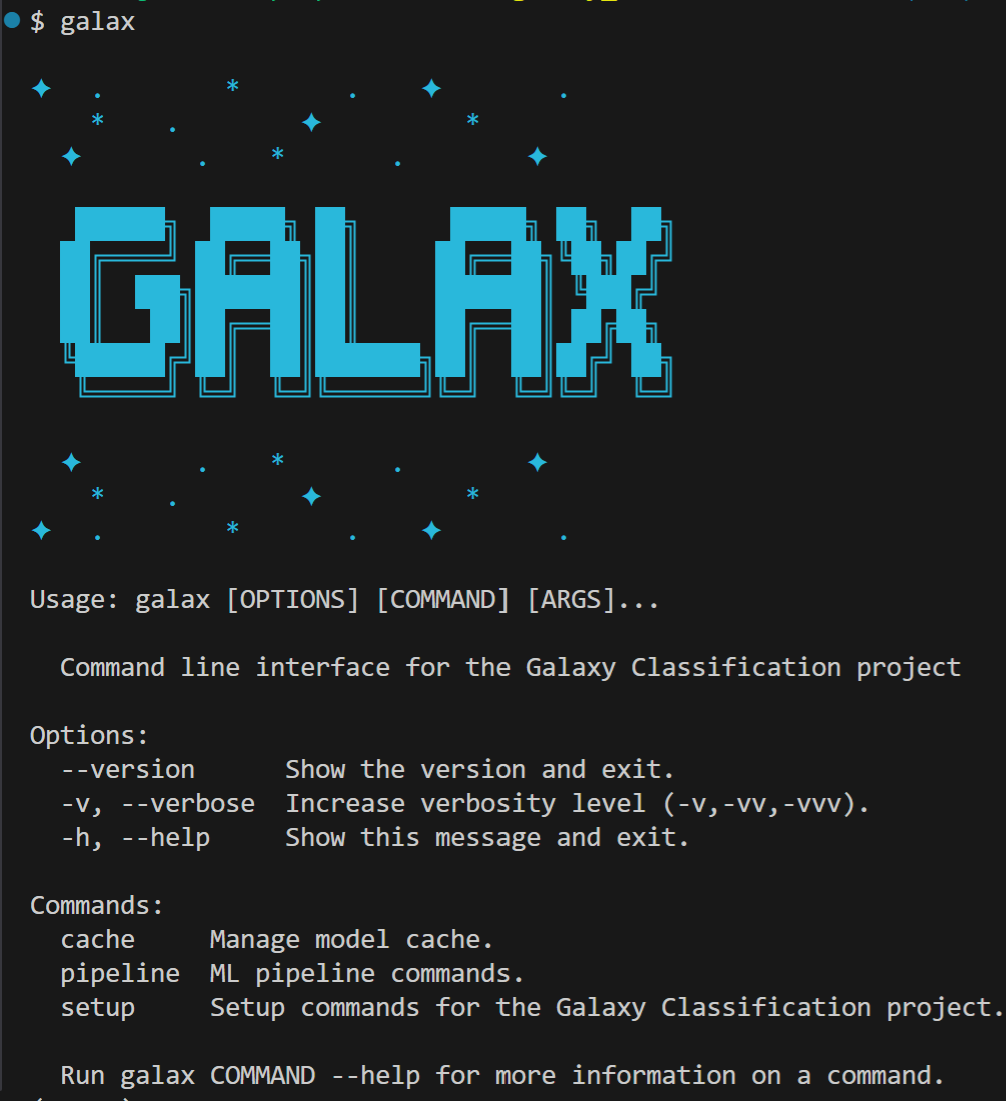
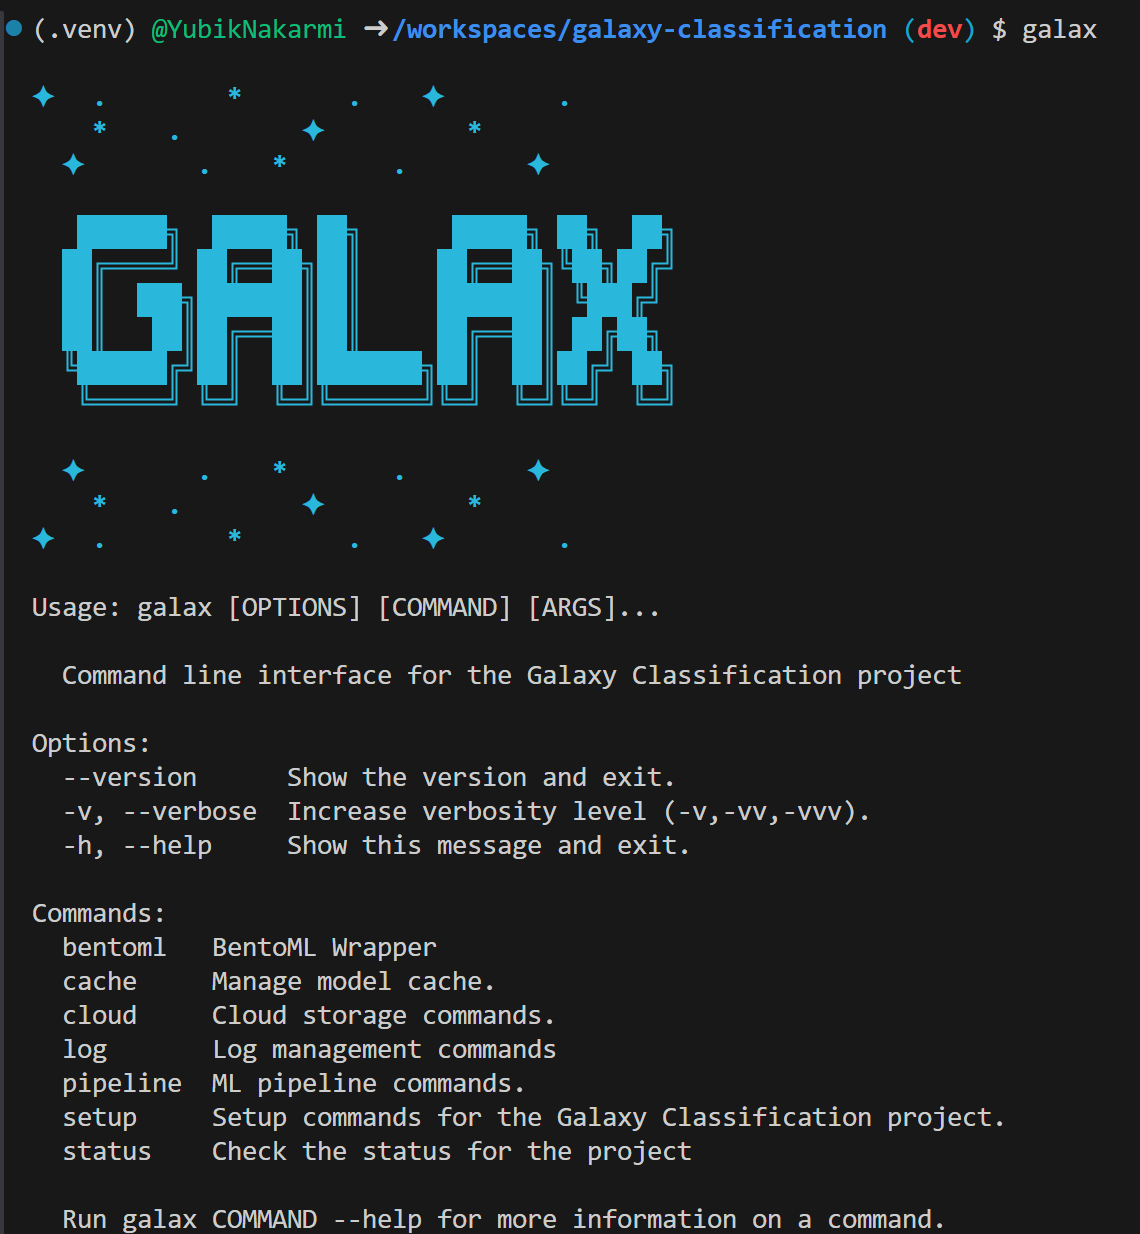
cli: added azure storage commands to check status of the storage acc and also uplading a blob

diff --git a/ml/cloud/azure_storage.py b/ml/cloud/azure_storage.py
@@ -1,15 +1,101 @@
 import click
 from ml.cloud import cloud
+from pathlib import Path
+
+ROOT = Path(__file__).parent.parent.parent
 
 @cloud.command()
-@click.option("--container_name", prompt="Container name", help="Name of the Azure Blob Storage container.")
-@click.option("--blob_name","-b", prompt="Blob name", help="Name of the blob to upload.")
-@click.option("--file_path","-f", prompt="File path", help="Path to the file to upload.")
 @click.pass_context
-def upload_blob(ctx, container_name: str, blob_name: str, file_path: str):
-    """Upload a file to Azure Blob Storage."""
-    from src.utils.azure_utils import AzureBlobStorage
+def check_storage_status(ctx):
     
+    
+    
+    from dotenv import load_dotenv
+    import os
+    from src.cli.style import UI
+    from src.utils.bootstrap import load_context
+    from src.utils.azure_utils import AzureBlobStorage
+    from rich.tree import Tree
+    from rich.panel import Panel
+    
+    load_dotenv(ROOT / ".env")
+    ui = ctx.find_object(UI) or UI(verbose=1)
+    app_ctx = ctx.obj or load_context(service="ml",std_out=False) 
+
+    azblob = os.getenv("AZURE_STORAGE_CONNECTION_STRING", None)
+    if not azblob:
+        ui.error("AZURE_STORAGE_CONNECTION_STRING is not set in the environment variables.")
+        raise EnvironmentError("AZURE_STORAGE_CONNECTION_STRING is not set in the environment variables.")
+
+    azblob_client = AzureBlobStorage(storage_connection_string=azblob)
+    info = azblob_client.print_info()
+    
+    root = Tree("Azure Storage Status", guide_style="bold bright_blue")
+    
+    for key, value in info.items():
+        
+        if isinstance(value, list):
+            sub_tree = Tree(f"{key}", guide_style="dim")
+            for val in value:
+                sub_tree.add(f"{val}")
+            root.add(sub_tree)
+        else:
+            root.add(f"{key}: {value}")
+
+
+    ui.print(Panel(root, title="Azure Storage Status", border_style="blue"))
+
+@cloud.command()
+@click.option("--container_name",required=False, prompt="Container name",
+              help="Name of the Azure Blob Storage container.")
+@click.option("--blob_name","-b",required=True, prompt="Blob name",
+              help="Name of the blob to upload.")
+@click.option("--file_path","-f",required=True, prompt="File path", 
+              help="Path to the file to upload.")
+@click.pass_context
+def upload_blob(ctx, blob_name: str, 
+                file_path: str, 
+                container_name: str=None):
+    
+    """Upload a blob to Azure Blob Storage."""
+    from src.utils.azure_utils import AzureBlobStorage
+    import os
+    from dotenv import load_dotenv
+    from src.cli.style import UI
+    from src.utils.bootstrap import load_context
+    from src.utils.validation import validate_path_exists
+    
+    
+    
+    load_dotenv(ROOT / ".env")
+    ui = ctx.find_object(UI) or UI(verbose=1)
+    app_ctx = ctx.obj or load_context(service="ml",std_out=False) 
+    
+    if not validate_path_exists([file_path],kind="file"):
+        ui.error("The specified file path does not exist.")
+        raise 
+
+    azblob = os.getenv("AZURE_STORAGE_CONNECTION_STRING", None)
+    if not azblob:
+        ui.error("AZURE_STORAGE_CONNECTION_STRING is not set in the environment variables.")
+        raise EnvironmentError("AZURE_STORAGE_CONNECTION_STRING is not set in the environment variables.")
+    
+    if not container_name:
+        ui.warning("Container name not provided. Using default container from configuration.")
+        container_name = app_ctx.core_cfg["cloud"]["azure"]["storage"]["default_container"]
+    
+    
+    with ui.status(f"Uploading {file_path} to container '{container_name}' as blob '{blob_name}'..."):
+        try:
+            azblob_client = AzureBlobStorage(azblob)
+            ui.debug(f"Uploading file '{file_path}' to container '{container_name}' with blob name '{blob_name}'.")
+            azblob_client.upload_blob(container_name=container_name, 
+                                       blob_name=blob_name, 
+                                       file_path=file_path)
+            ui.success(f"Successfully uploaded {file_path} to container '{container_name}' as blob '{blob_name}'.")
+        except Exception as e:
+            ui.error(f"Failed to upload blob: {e}", show_execption=True)
+            raise e
     
     
 

diff --git a/ml/cli.py b/ml/cli.py
@@ -31,7 +31,8 @@ command_modules = {
     "cache": ("ml.cache", "cache"),
     "status": ("ml.cli", "status"),
     "log":("ml.cli","log"),
-    "bentoml":("ml.wrappers.bentoml","bentoml")
+    "bentoml":("ml.wrappers.bentoml","bentoml"),
+    "cloud":("ml.cloud.azure_storage","cloud"),
 }
 
 class LazyRootGroup(LazyPipelineGroup):
@@ -59,15 +60,21 @@ def cli(ctx,verbose):
     """Command line interface for the Galaxy Classification project."""
     
     ui = UI(verbose)
-
+    
+    
     ctx.obj = ui  # to avaoid conflict with app contexxt used downstream
-    ctx.meta["ui"] = ctx.obj #string typed extract with ui = cts["ui"]
-    if ctx.invoked_subcommand is None:#for top-level command, show help if no subcommand is provided
-        click.secho(BANNER, fg="cyan", bold=True)
-        click.echo(ctx.get_help())
+    ctx.meta["ui"] = ctx.obj  #string typed extract with ui = cts["ui"]
+    
+    try:
+        if ctx.invoked_subcommand is None:#for top-level command, show help if no subcommand is provided
+            click.secho(BANNER, fg="cyan", bold=True)
+            click.echo(ctx.get_help())
             
+    except Exception as e:
+        ui.log= False
+        ui.error(f"Error while executing command: {e}",show_execption=True)
+        raise click.ClickException(f"Error while executing command: {e}")
    
-
 
 @cli.command()
 @click.pass_context

diff --git a/src/utils/azure_utils.py b/src/utils/azure_utils.py
@@ -297,24 +297,31 @@ class AzureBlobStorage:
         except Exception as e:
             logger.exception(f"Error deleting blob: {e}")
 
-    def print_info(self):
+    def print_info(self,blob=False)->dict[str, str | list[str] | bool]:
 
         """Log information about the current storage account.
 
         Logs the active container, storage account name, available blobs, and
         available containers.
         """
+        result = {}
 
-        logger.info(f"Container Name: {self.container_name}")
-        logger.info(f"storage_name: {self.blob_service_client.account_name}")
+        logger.info(f"storage_account_name: {self.blob_service_client.account_name}")
+        result["storage_account_name"] = self.blob_service_client.account_name
 
-        for blob in self.list_blobs():
-            logger.info(f"Blob Name: {blob}")
-        
+        if blob:
+            for blob in self.list_blobs():
+                logger.info(f"Blob Name: {blob}")
+                result[blob] = True
+
         container_names = self.list_containers()
         if container_names is not None:
+            result["Containers"]=container_names
+
+
             for container in container_names:
                 logger.info(f"Container Name: {container}")
+        return result
                 
     #helpers
     def _ensure_container_client(self) -> ContainerClient:

diff --git a/ml/setup/__init__.py b/ml/setup/__init__.py
@@ -4,28 +4,17 @@ import importlib
 
 
 from ml.cli import cli
+from src.cli.utils import LazyPipelineGroup
 
-class LazyPipelineGroup(click.Group):
-    """Load pipeline commands only when they are invoked."""
+class LazySetupGroup(LazyPipelineGroup):
 
     command_modules = {
         "setup": ("ml.setup.setup", "main"),
-        
-    }
+        }
 
-    def list_commands(self, ctx):
-        return sorted(self.command_modules)
+    
 
-    def get_command(self, ctx, name):
-        module_info = self.command_modules.get(name)
-        if module_info is None:
-            return None
-
-        module_name, command_name = module_info
-        module = importlib.import_module(module_name)
-        return getattr(module, command_name)
-
-@cli.group(cls=LazyPipelineGroup)
+@cli.group(cls=LazySetupGroup)
 @click.pass_context
 def setup(ctx):
     '''Setup commands for the Galaxy Classification project.'''

diff --git a/src/cli/utils.py b/src/cli/utils.py
@@ -14,12 +14,16 @@ class LazyPipelineGroup(click.Group):
     
     Example:
     ```python
-        command_modules = {
-                "train": ("ml.pipeline.train", "train"),
-                "evaluate": ("ml.pipeline.eval", "evaluate"),
-                "preprocess": ("ml.pipeline.preprocess", "preprocess"),
-                
-            }
+        from src.cli.utils import LazyPipelineGroup
+        class LazyGroup(LazyPipelineGroup):
+
+            command_modules = {
+                "setup": ("ml.setup.setup", "main"),
+                }
+        
+        @click.group(cls=LazyGroup)
+        def setup(ctx):
+            pass
     ```
     """
 

diff --git a/src/cli/status.py b/src/cli/status.py
@@ -92,7 +92,7 @@ class ConfigUI:
 
         az_tree = Tree(f"[bold green]Azure Storage[/bold green]", guide_style="dim cyan")
         
-        az_tree.add(f"[bold]Azure Connection[/bold]: [green]✓ Connected[/green]" 
+        az_tree.add(f"[bold]Azure Storage Connection[/bold]: [green]✓ Connected[/green]" 
                     if az_sts["azure"] else "[red]✗ unreachable[/red]")
         az_tree.add(f"[bold]DVC Container[/bold]: [green]✓ exists[/green]" 
                     if az_sts["dvc"] else "[red]✗ does not exist[/red]")

diff --git a/src/cli/style.py b/src/cli/style.py
@@ -150,7 +150,9 @@ class UI:
         if self.log:
             logger.opt(depth=1).warning(message)
 
-    def error(self, message: str,style:Optional[str]=None, show_execption:bool=False):
+    def error(self, message: str,style:Optional[str]= None, 
+              show_execption:bool=False):
+        
         self.console.print(f"[error]✖ {message}[/error] ",style = style)
         
         if self.log:

diff --git a/ml/cloud/__init__.py b/ml/cloud/__init__.py
@@ -3,7 +3,8 @@ from ml.cli import cli
 from src.cli.utils import LazyPipelineGroup
 
 command_modules = {
-    "azure_storage": ("ml.cloud.azure_storage", "cloud"),
+    "status": ("ml.cloud.azure_storage", "check_storage_status"),
+    "upload-blob": ("ml.cloud.azure_storage", "upload_blob"),
 }
 
 class CloudGroup(LazyPipelineGroup):

diff --git a/ml/pipeline/__init__.py b/ml/pipeline/__init__.py
@@ -1,7 +1,4 @@
 from __future__ import annotations
-
-import importlib
-
 import click
 from src.cli.utils import LazyPipelineGroup
 from ml.cli import cli

diff --git a/docs/docs/getting-started/cli.md b/docs/docs/getting-started/cli.md
@@ -22,6 +22,12 @@ You should see something like this:
 > More detailed architecute of cli on [CLI](/docs/docs/development/cli.md#overview) documentation.
 
 ## Basic Commands
+### Status
+```sh
+galax status
+```
+
+![Status](../assets/cli/status.png)
 
 ### Importing a model
 ```sh
